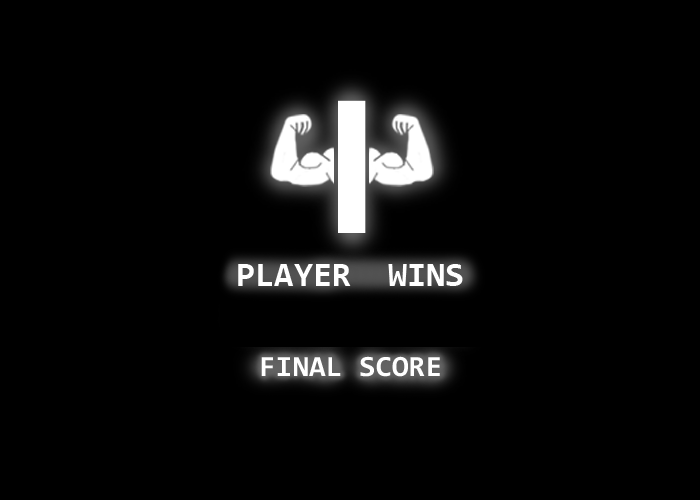
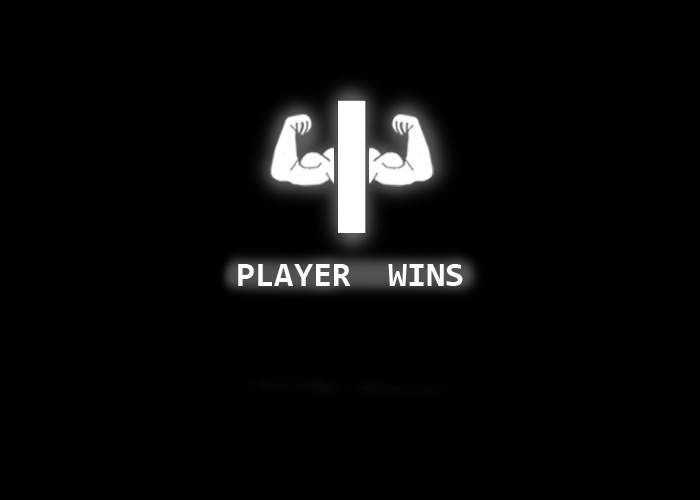
Broken game

Changed region(s): [[0.33, 0.69, 0.66, 0.78]]

diff --git a/Ping/Ball.java b/Ping/Ball.java
@@ -177,8 +177,9 @@ public class Ball extends Mover
                 Greenfoot.setWorld(new MultiplayerWorld());
             }
             
-            else
-            if (MultiplayerWorld.multiPlayerActive == false)
+           
+            
+            else 
             {
                 Greenfoot.setWorld( new GameOverWorld());
             }
@@ -199,23 +200,8 @@ public class Ball extends Mover
                 ScoreKeeper.playerScore++;
             }
         }
-        decideWinner();
+        
     }
     
-    private void decideWinner()
-    {
-        int limit = 6;
-        if (ScoreKeeper.playerScore == limit || ScoreKeeper.multiPlayerScore==limit)
-        {
-            if (ScoreKeeper.playerScore == limit)
-            {
-                ScoreKeeper.winner = "Player 1";
-            }
-            else
-            {
-                ScoreKeeper.winner = "Player 2";
-            }
-            Greenfoot.setWorld( new MultiGameOverWorld());
-        }
-    }
+  
 }

diff --git a/Ping/MultiGameOverWorld.java b/Ping/MultiGameOverWorld.java
@@ -27,7 +27,7 @@ public class MultiGameOverWorld extends GameWorld
         setPaintOrder(Overlay.class, EndingScore.class);
         addObject(new Overlay(), WORLD_WIDTH/2, WORLD_HEIGHT/2); //Adds and overlay than covers every object on screen.
         drawWinner();
-        endScore();
+        
         
         
     }
@@ -35,7 +35,7 @@ public class MultiGameOverWorld extends GameWorld
     public void act()
     {
         flashingContinueText();
-        
+        resetScores();
         
         goToIntro();
     }

diff --git a/Ping/MultiScoreCounter.java b/Ping/MultiScoreCounter.java
@@ -56,7 +56,7 @@ public class MultiScoreCounter extends Actor
         
     public void resetScore()
     {
-        if (ScoreKeeper.multiPlayerScore>=6 || MultiplayerWorld.multiPlayerActive == false)
+        if (ScoreKeeper.multiPlayerScore>=7 || MultiplayerWorld.multiPlayerActive == false)
         {
             ScoreKeeper.multiPlayerScore = 0;    
         }

diff --git a/Ping/ScoreCounter.java b/Ping/ScoreCounter.java
@@ -56,7 +56,7 @@ public class ScoreCounter extends Actor
         
     public void resetScore()
     {
-        if (ScoreKeeper.playerScore >=6 || MultiplayerWorld.multiPlayerActive == false)
+        if (ScoreKeeper.playerScore >=7 || MultiplayerWorld.multiPlayerActive == false)
         {
             ScoreKeeper.playerScore = 0;    
         }
